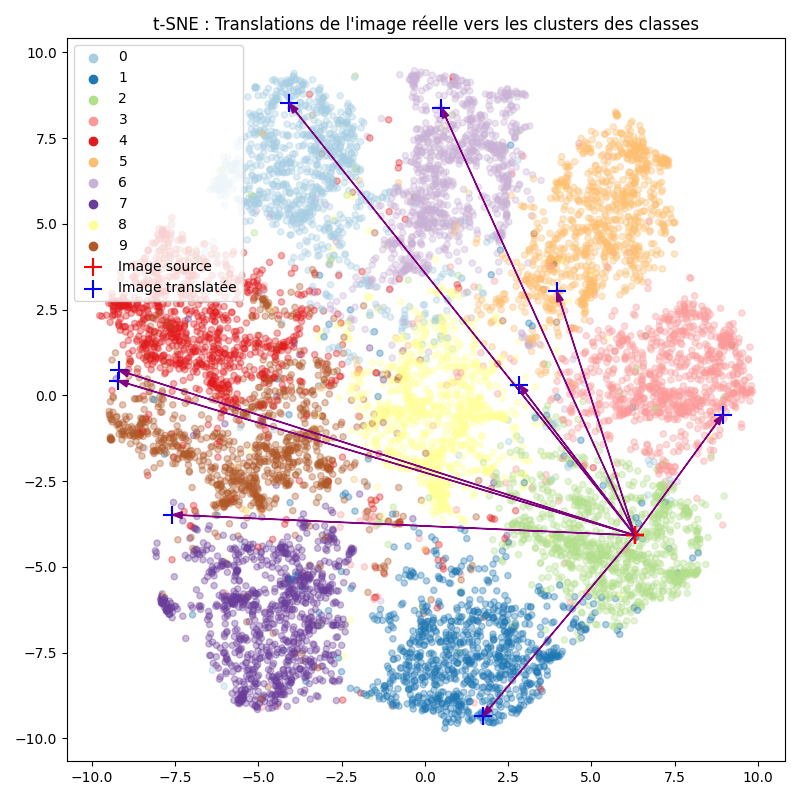
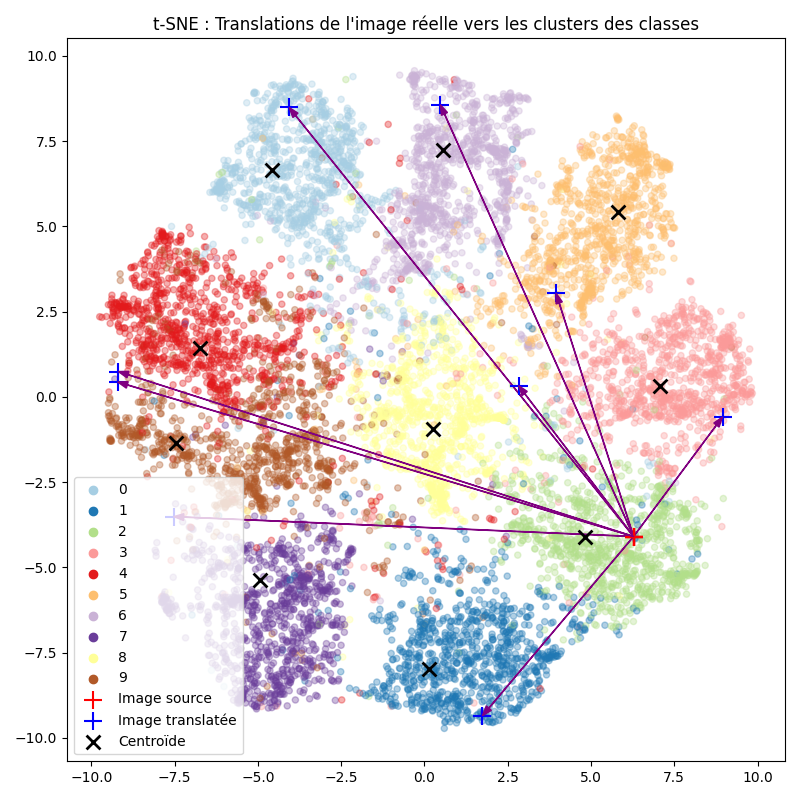
Reinstated centroids in t-SNE

diff --git a/Code/MNIST/MNIST_BetaVAE_Full_Residual_Classifier_Confusion.py b/Code/MNIST/MNIST_BetaVAE_Full_Residual_Classifier_Confusion.py
@@ -248,13 +248,14 @@ plt.savefig("./Results/mnist-trace-translated-image.png")
 
 X_classes2 = tf.image.resize(X_classes2, (64, 64))
 X_encoded_classes = encoder.predict(X_classes2)
-X_encoded = np.concatenate((X_encoded_classes, predicted, translated_encoded))
+X_encoded = np.concatenate((X_encoded_classes, predicted, translated_encoded, encoded_means.squeeze()))
 
 tsne = TSNE(n_components = 2, random_state = 1337, max_iter = 300)
 X_tsne_full = tsne.fit_transform(X_encoded)
-X_predicted = X_tsne_full[-10]
-X_translated = X_tsne_full[-9:]
-X_tsne = X_tsne_full[:-10]
+X_tsne = X_tsne_full[:-20]
+X_predicted = X_tsne_full[-20]
+X_translated = X_tsne_full[-19:-10]
+X_encoded_means = X_tsne_full[-10:]
 
 plt.figure(figsize=(8, 8))
 
@@ -293,6 +294,16 @@ for class_label in unique_classes:
     ellipse = Ellipse(xy=mean, width=width, height=height, angle=angle, facecolor=color, edgecolor=color, alpha=0.35, lw=3, zorder=0)
     plt.gca().add_patch(ellipse)
 
+plt.scatter(
+    X_encoded_means[:, 0],
+    X_encoded_means[:, 1],
+    color="black",
+    marker='x',
+    s=100,
+    linewidths=2,
+    label="Centroïde"
+)
+
 plt.title(f"t-SNE : Translations de plusieurs sources vers les clusters des classes")
 plt.legend()
 plt.tight_layout()
@@ -328,6 +339,16 @@ for i in range(9):
 
 plt.scatter([], [], marker="+", color="red", s=150, label="Image source")
 plt.scatter([], [], marker="+", color="blue", s=150, label="Image translatée")
+
+plt.scatter(
+    X_encoded_means[:, 0],
+    X_encoded_means[:, 1],
+    color="black",
+    marker='x',
+    s=100,
+    linewidths=2,
+    label="Centroïde"
+)
 
 plt.title(f"t-SNE : Translations de l'image réelle vers les clusters des classes")
 plt.legend()
